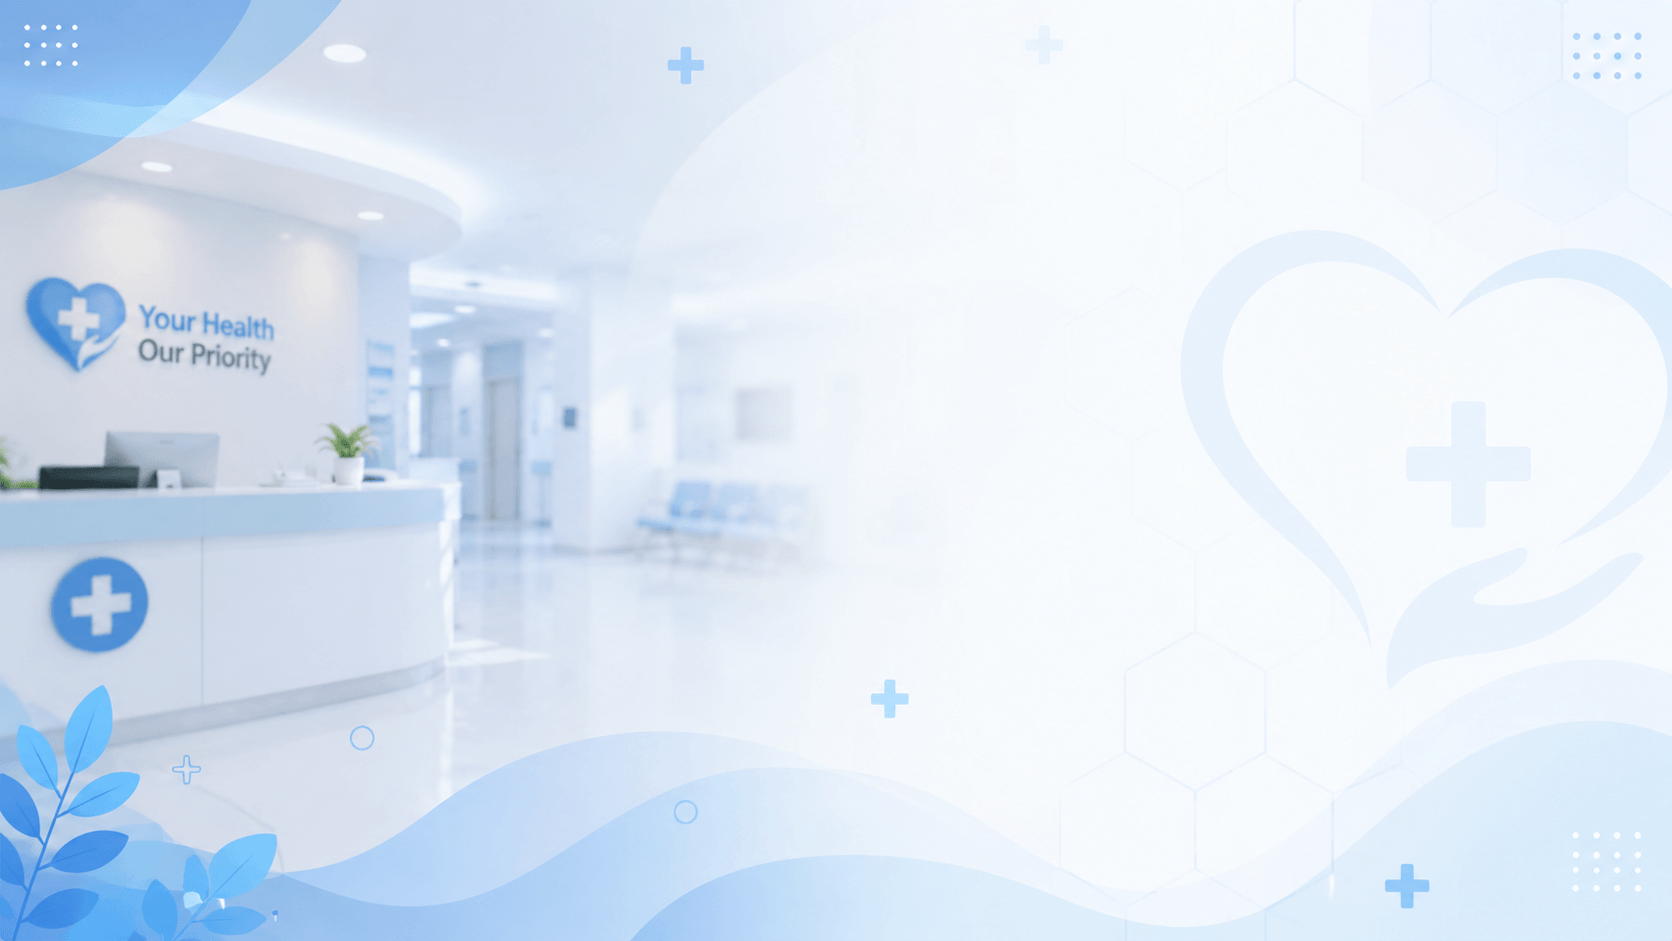
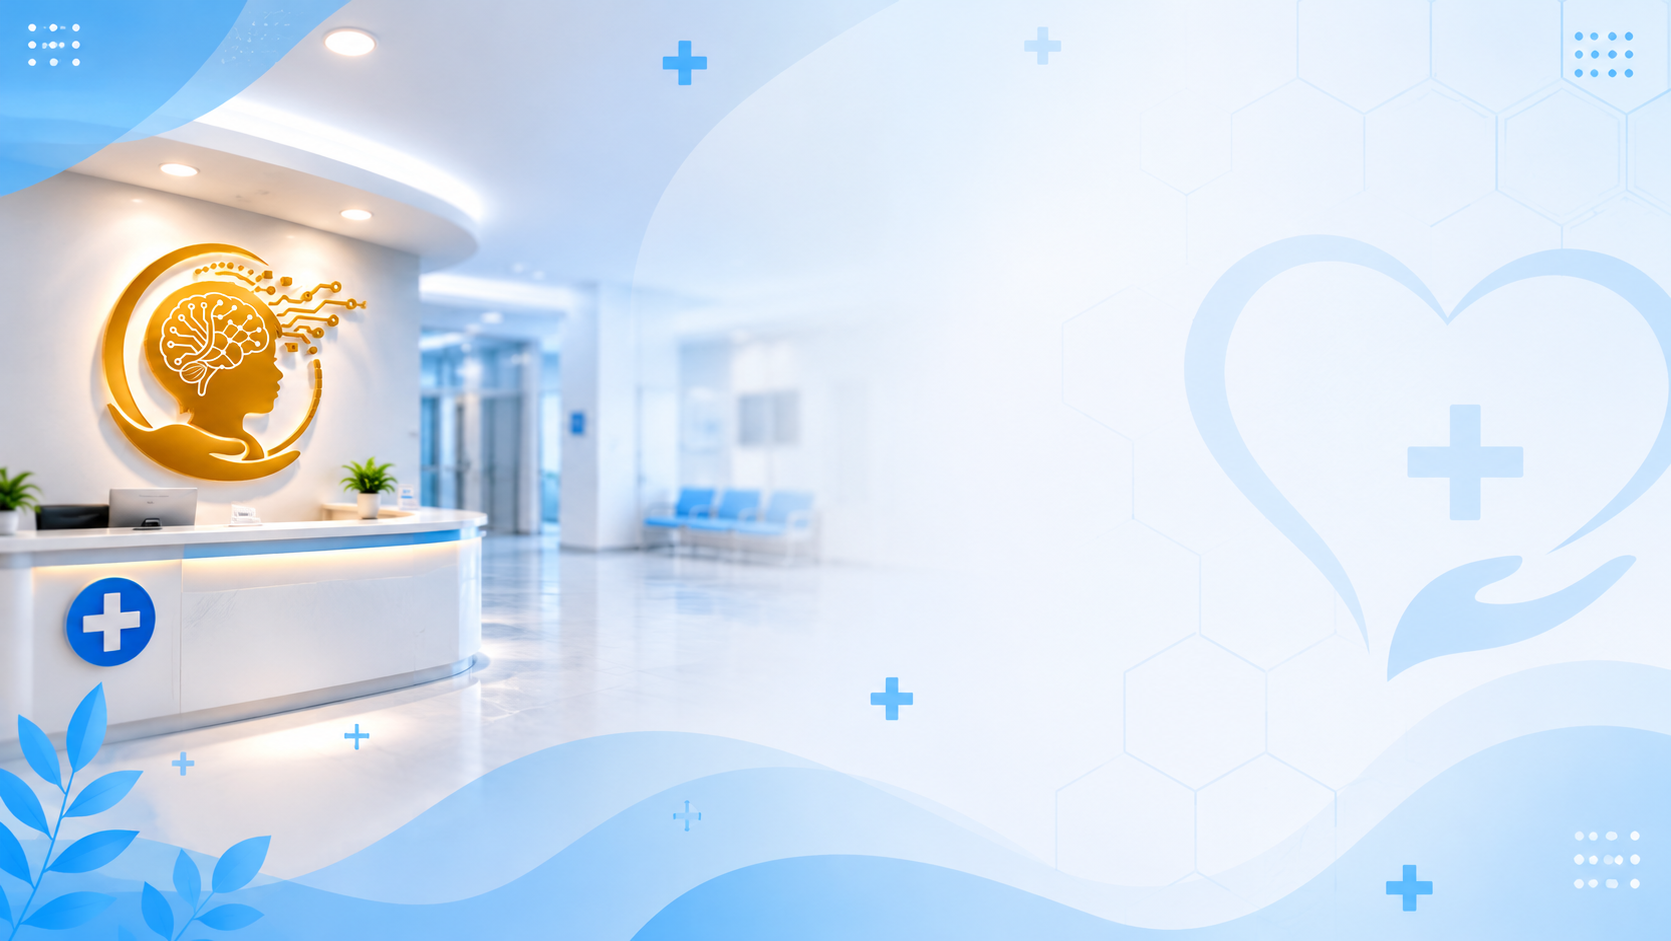
ajustes 001

diff --git a/routes/web.php b/routes/web.php
@@ -81,7 +81,7 @@ Route::get('login/google/callback', [GoogleCalendarController::class, 'redirect'
     ->name('googleCalendarCallback');
 
 Route::middleware('setLanguage')->group(function () {
-    //Route::get('/', [FrontController::class, 'medical'])->name('medical');
+    Route::get('/', [FrontController::class, 'medical'])->name('medical');
     Route::get('/medical-about-us', [FrontController::class, 'medicalAboutUs'])->name('medicalAboutUs');
     Route::get('/medical-services', [FrontController::class, 'medicalServices'])->name('medicalServices');
     Route::get('/medical-appointment', [FrontController::class, 'medicalAppointment'])->name('medicalAppointment');

diff --git a/database/seeders/SettingTableSeeder.php b/database/seeders/SettingTableSeeder.php
@@ -15,7 +15,7 @@ class SettingTableSeeder extends Seeder
         $logoUrl = asset('assets/image/neurofisico-logo.png');
         $favicon = asset('assets/image/neurofisico-favicon.ico');
 
-        Setting::create(['key' => 'clinic_name', 'value' => 'Clinic Appointment Management']);
+        Setting::create(['key' => 'clinic_name', 'value' => 'Clinica Neurofisico']);
         Setting::create(['key' => 'contact_no', 'value' => '1234567890']);
         Setting::create(['key' => 'email', 'value' => 'infycare@email.com']);
         Setting::create(['key' => 'specialities', 'value' => '1']);

diff --git a/app/Http/Controllers/Front/FrontController.php b/app/Http/Controllers/Front/FrontController.php
@@ -27,8 +27,10 @@ class FrontController extends AppBaseController
     /**
      * @return Application|Factory|View
      */
-    public function medical(): \Illuminate\View\View
+    public function medical(): \Illuminate\Http\RedirectResponse|\Illuminate\View\View
     {
+        return redirect('/login');
+
         $doctors = Doctor::with('user', 'specializations')->whereHas('user', function (Builder $query) {
             $query->where('status', User::ACTIVE);
         })->latest()->take(10)->get()->pluck('user.full_name', 'id');
